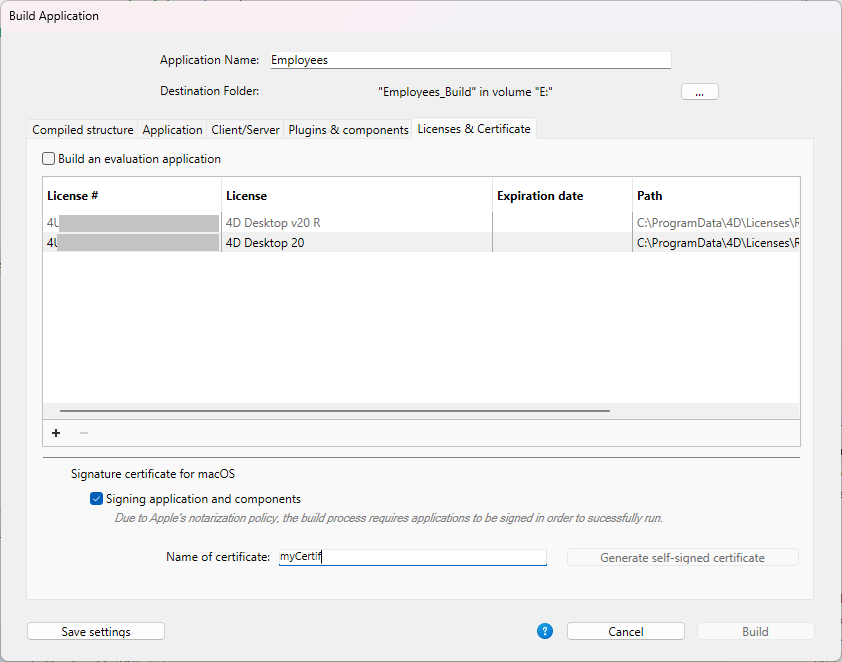
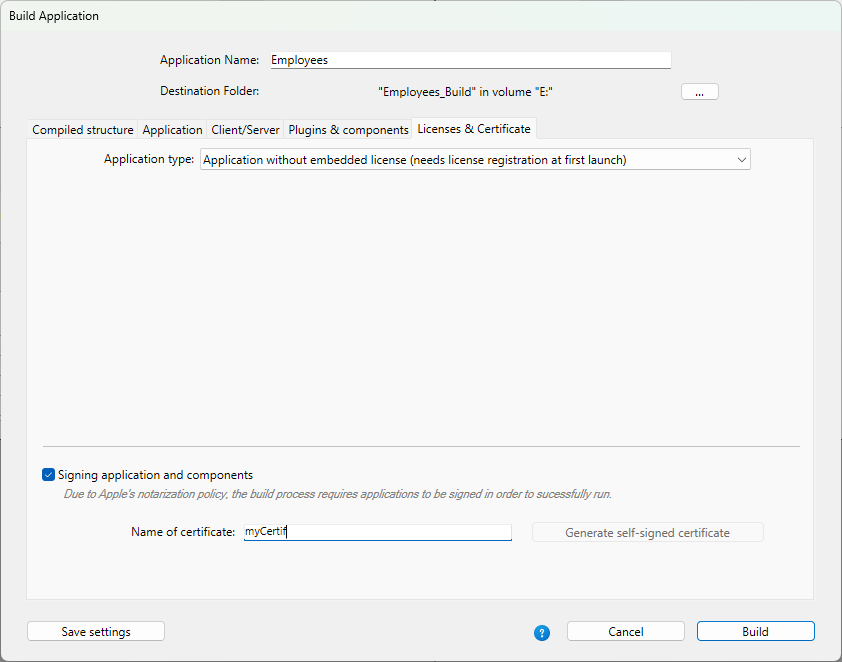
buildapp

diff --git a/docs/Desktop/building.md b/docs/Desktop/building.md
@@ -505,7 +505,7 @@ The following optional modules can be deselected:
 
 The Licences & Certificate page can be used to:
 
-* designate the [deployment license(s)](../Admin/licenses.md#deployment-licenses) that you want to integrate into your [stand-alone](#application-page) or [client-server](#clientserver-page) application,
+* configure the [deployment license(s)](../Admin/licenses.md#deployment-licenses) that you want to integrate into your [stand-alone](#application-page) or [client-server](#clientserver-page) application,
 * sign the application by means of a certificate in macOS.
 
 ![](../assets/en/Admin/buildappCertif.png)
@@ -513,17 +513,22 @@ The Licences & Certificate page can be used to:
 
 ### Licenses
 
-This tab displays the [Build an evaluation application](#build-an-evaluation-application) option and the list of available [deployment licenses that you can embed](../Admin/licenses.md#deployment-licenses) into your application (stand-alone or client-server). By default, the list is empty. 
+This tab displays the **Application type** menu, allowing you to select how licenses will be managed in the built application. The following options are available:
 
-You can use this tab to build:
+![](../assets/en/Admin/buildappLic.png)
 
-- an evaluation application,
-- a licensed application without embedded license (the user has to have a per-user license),
-- a licensed application with embedded license(s). 
 
-#### Build an evaluation application
+#### Application without embedded license
 
-Check this option to create an evaluation version of your application. 
+Select this option to build an application without embedded deployment license. 
+
+In this case, the end-user will have to purchase and enter a per-user *4D Desktop* or *4D Server* license at first application startup (when you embed a deployment license, the user does not have to enter or use their own license number). For more information, see the [**Deployment licenses**](../Admin/licenses.md#deployment-licenses) section.
+
+
+
+#### Evaluation application
+
+Select this option to create an evaluation version of your application. 
 
 An evaluation application allows the end-user to run a full-featured version of your stand-alone or server application on their machine for a limited period of time, starting at first launch. At the end of the evaluation period, the application can no longer be used for a certain period of time on the same machine.  
 
@@ -533,7 +538,6 @@ An internet connection is required on the user machine at the first launch of th
 
 :::
 
-As soon as the "Build an evaluation application" option is enabled, deployment licenses are ignored. 
 
 :::note Notes
 
@@ -543,20 +547,29 @@ As soon as the "Build an evaluation application" option is enabled, deployment l
 
 :::
 
-#### Build a licensed application without embedded license(s)
 
-To build an application without embedded deployment license, just keep the license list empty and make sure the "Build an evaluation application" option is **unchecked**. 
+#### Application automatically embedding available licenses
 
-In this case, the end-user will have to purchase and enter a per-user *4D Desktop* or *4D Server* license at first application startup (when you embed a deployment license, the user does not have to enter or use their own license number). For more information, see the [**Deployment licenses**](../Admin/licenses.md#deployment-licenses) section.
+Select this option to build a ready-to-use application (stand-alone or client-server), embedding [deployment licenses](../Admin/licenses.md#deployment-licenses) automatically. 
 
-#### Build a licensed application with embedded license(s)
+When building the application, 4D will automatically integrate necessary valid license(s) found on the machine. If multiple valid licenses are found on the machine, 4D will use the most appropriate, in the following order:
 
-This option allows you to build a ready-to-use application, in which necessary licenses are already embedded. 
+1. OEM licenses, or
+2. business licenses, or
+3. unlimited licenses.
 
-You must designate the files that contain your [deployment licenses](../Admin/licenses.md#deployment-licenses). These files were generated or updated when the *4D Developer Professional* license and the deployment licenses were purchased. Your current *4D Developer Professional* license is automatically associated with each deployment license to be used in the application built. You can add another 4D Developer Professional number and its associated licenses.
+If no valid license is found, an error is generated. 
+
+After a licensed application is built, a new deployment license file is automatically included in the Licenses folder next to the executable application (Windows) or in the package (macOS).
+
+
+#### Application embedding licenses from the following list
+
+Select this option to build a ready-to-use application (stand-alone or client-server), embedding necessary [deployment licenses](../Admin/licenses.md#deployment-licenses) that you designate specifically. When you select this option, a license list is displayed in the tab. 
+
+You must designate the files that contain your licenses. These files were generated or updated when the *4D Developer Professional* license and the deployment licenses were purchased. Your current *4D Developer Professional* license is automatically associated with each deployment license to be used in the application built. You can add another 4D Developer Professional number and its associated licenses.
 
 To remove or add a license, use the **[+]** and **[-]** buttons at the bottom of the window. When you click on the \[+] button, an open file dialog box appears displaying by default the contents of the *Licenses* folder of your machine. For more information about the location of this folder, refer to the [Get 4D folder](../commands-legacy/get-4d-folder.md) command.
-
 
 Once you have selected a file, the list will indicate the characteristics of the license that it contains.
 
